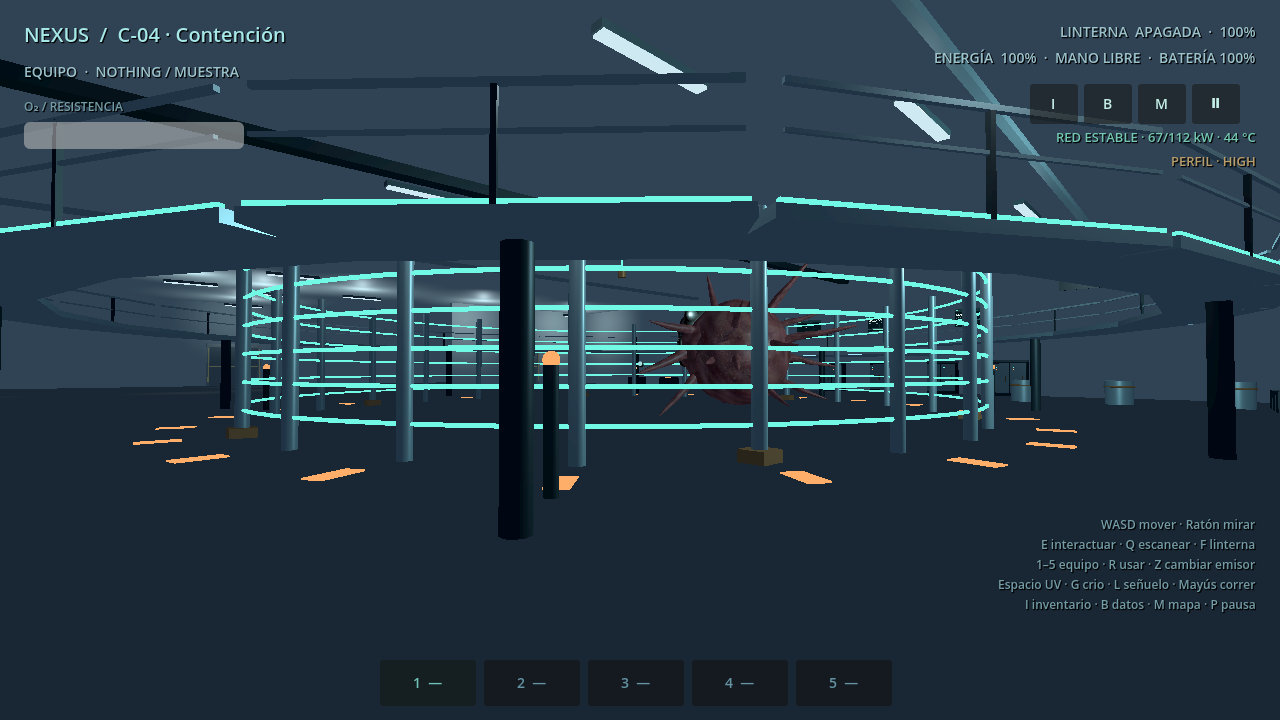
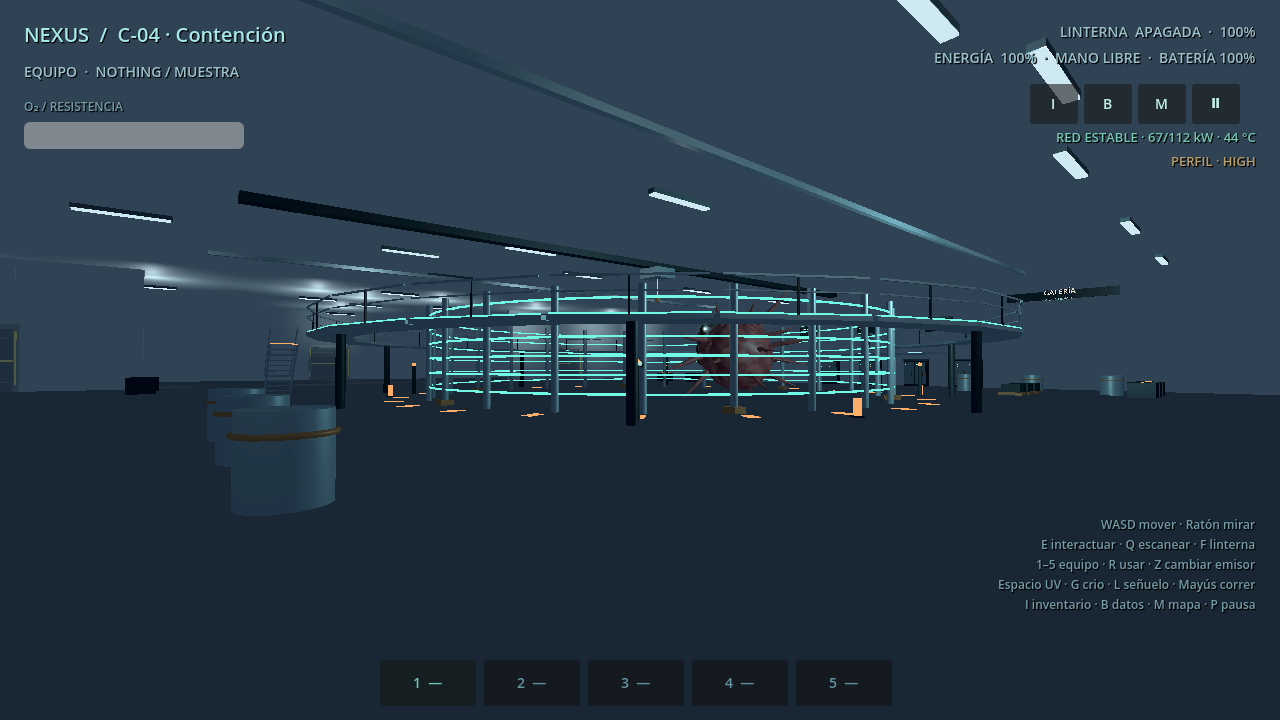
Fase 27: mobiliario de escala humana en C-04 y telemetria viva en su banco

diff --git a/docs/migration/PHASE_27_CONTAINMENT_SCALE.md b/docs/migration/PHASE_27_CONTAINMENT_SCALE.md
@@ -1,0 +1,56 @@
+# Fase 27 · C–04 a escala humana y telemetría viva
+
+## Mobiliario
+
+- **Carretilla** (`C04Forklift`) en el muro este: cuerpo de acero con faldón de
+  grafito, cabina con barra de protección, cuatro ruedas, mástil inclinado,
+  horquillas y baliza verde. Estaba pensada para leerse a distancia, así que se
+  separa del anillo y se apoya en el muro (37,5 · 14) girada −2,3 rad.
+- **Escalera de pasarela** (`C04Stair`): nueve peldaños con dos zancas, doble
+  barandilla y testa ámbar, subiendo en tres metros hasta la cota de la
+  pasarela (3,1).
+- **Cinco conos de balizamiento** alrededor de la franja de peligro y **tres
+  palés** con carga junto al acceso norte.
+- **Iluminación**: la nave de C–04 mide 72 × 84 m y sus luminarias iban en una
+  sola fila por el eje largo; ahora hay cuatro filas (z = 6, 34, 62 y la central)
+  que reparten luz sobre el anillo, el banco de instrumentación y el suelo.
+
+## Telemetría viva en el banco de instrumentación
+
+De las tres pantallas del muro oeste, la primera deja el fósforo sintético y
+pasa a **telemetría real**: su `kind` es `"telemetry"` y lleva un
+`TelemetryFeed` (`C04Feed`) creado con el mobiliario que muestrea `GameState`
+cada frame — carga y temperatura de la red, sujeto, integridad, distancia,
+estado e intención. Las otras dos siguen mostrando el estado de la malla
+(«CONTENCIÓN C–04 · MALLA ACTIVA · anillo n · tensión nominal»).
+
+```gdscript
+var feed := TelemetryFeed.new()
+feed.name = "C04Feed"
+add_child(feed)
+feed.screen = screen      # el feed se engancha en código, no por NodePath
+feed.set_process(true)
+```
+
+## QA
+
+`validate_dressing` pasa de 110 a **116 checks**: pasarela, pórtico, carretilla,
+cinco conos, tres pantallas y el `C04Feed` con su `screen` enlazada. Totales:
+
+```
+run_suite 335 · layouts 65 · dressing 116 · files 33 · vault 53 · bench 51
+operations 77 · transit 154 · experience 139 · camera 113 · session 95
+displays 89 · w01_ai 66 · power_grid 45 · traversal 255 · zone_graph 303
+game_state 17 · resume 8          →  2014 checks, 0 fallos
+```
+
+Capturas regeneradas (nueve zonas) y hoja `reports/phase27-ingame.png`.
+
+## Pendientes
+
+1. Las otras dos pantallas de C–04 podrían alternar páginas con `cycle_page()`.
+2. La carretilla no tiene colisión propia: si el jugador se acerca, la atraviesa
+   (todo el atrezzo de `ZoneDressing` es decorativo).
+3. El vídeo de CCTV sigue pendiente: el repositorio web no trae ningún fichero
+   de vídeo (sólo `public/icon.svg` y los PNG del manifiesto), así que el
+   fósforo sintético de `WallScreen` es hoy lo más fiel que hay.

diff --git a/docs/migration/MIGRATION_PROGRESS.md b/docs/migration/MIGRATION_PROGRESS.md
@@ -97,6 +97,11 @@ Actualizado: 2026-11-24. La migración continúa en `/home/user/NEXUS-Native`; l
 - A–01: dos estanterías de carga, muelle con franja y topes, bancada de carga de tres alojamientos, carro, bidones, pasillo marcado, tuberías, baliza y rótulo «MUELLE». Vista propia en `qa/capture_zones.tscn` (nueve zonas).
 - «GALERÍA AXIAL» reducido y desplazado al extremo de V–03 para que no se coma los planos rasantes. Hoja `reports/phase26-ingame.png`. QA total sin cambios: **2008 checks**. Detalle en `PHASE_26_ROOM_DENSITY.md`.
 
+## Fase 27 · C–04 a escala humana y telemetría viva
+- Carretilla, escalera de pasarela, conos, palés y cuatro filas de luminarias en la nave de contención (72 × 84 m): el anillo, el banco de instrumentación y el suelo dejan de estar a oscuras.
+- La primera pantalla del banco de C–04 pasa a `kind = "telemetry"` con un `TelemetryFeed` (`C04Feed`) creado con el mobiliario: carga/temperatura de red, sujeto, integridad, distancia e intención en vivo.
+- `validate_dressing` 110 → **116 checks** (pasarela, pórtico, carretilla, conos, pantallas y feed enlazado). Total: **2014 checks**, 0 fallos. Hoja `reports/phase27-ingame.png`. Detalle en `PHASE_27_CONTAINMENT_SCALE.md`.
+
 ## Siguiente bloque de trabajo
 0. Ver `docs/migration/PARITY_WEB_NATIVE.md` para la comparación módulo a módulo con la web v15.1.
 1. Verificar y ajustar el HUD/touch y el mapa en una build visible de Android.
